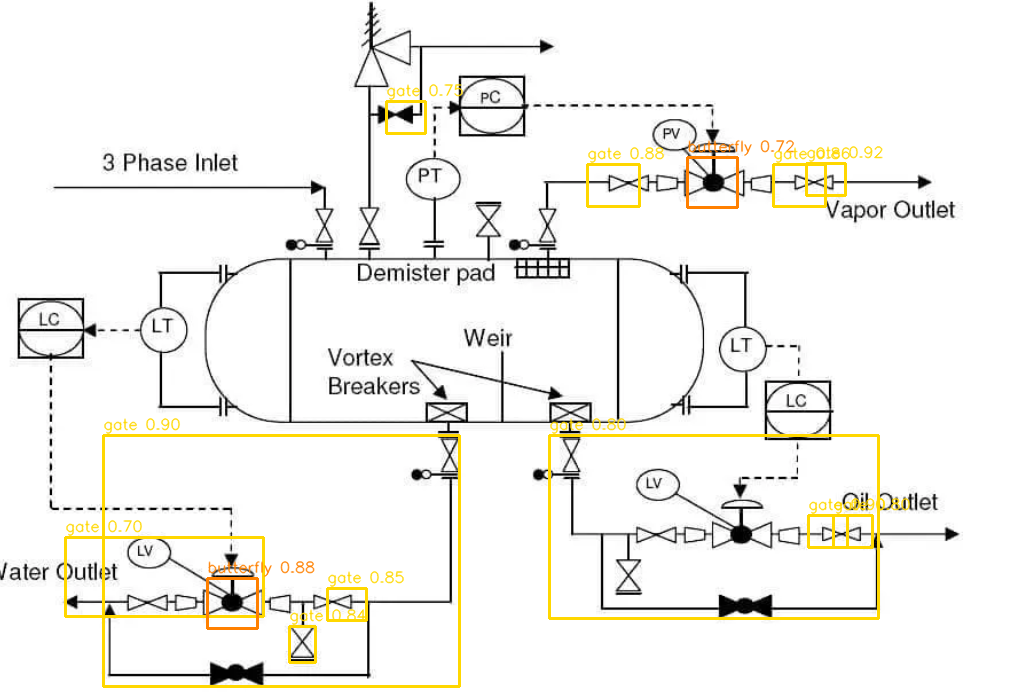
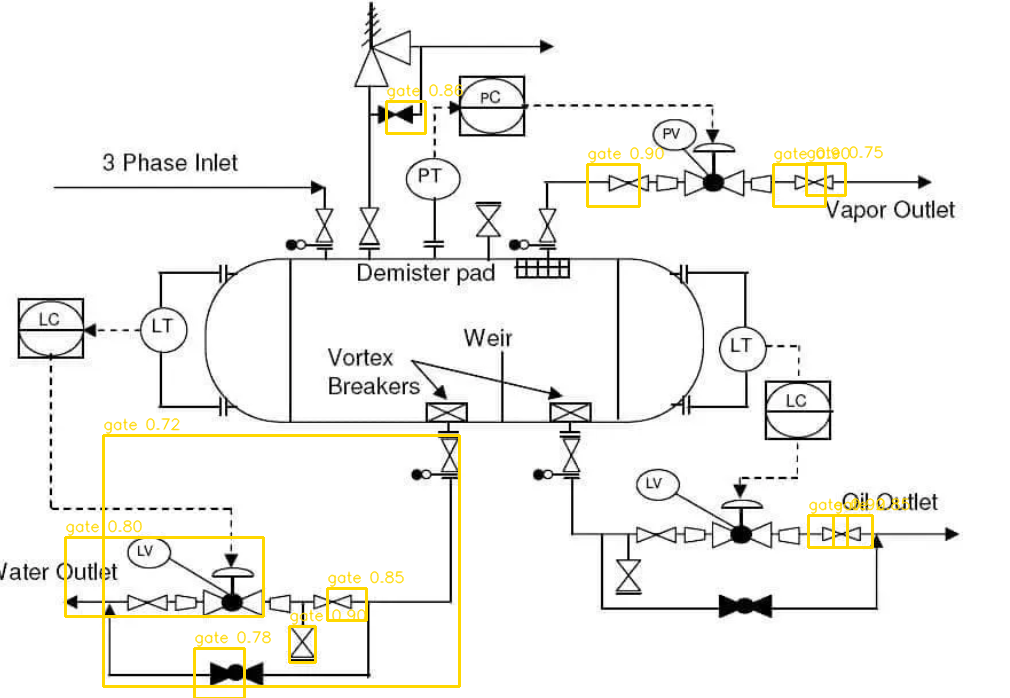
Added Source Explaination file

diff --git a/valve_pipeline/src/detect.py b/valve_pipeline/src/detect.py
@@ -18,6 +18,7 @@ class Box:
     template_label: str = field(default="")
 
 
+# Loads each reference valve image from disk, binarizes it, and returns a dict mapping label names to their binary template arrays.
 def load_templates(
     refs_dir: str | Path,
     reference_map: dict[str, str],
@@ -37,6 +38,7 @@ def load_templates(
     return templates
 
 
+# Finds all candidate valve regions in the binary image by combining template matching and connected-component analysis, then removes overlapping boxes via NMS.
 def detect_candidates(
     binary_img: np.ndarray,
     templates: dict[str, np.ndarray],
@@ -83,6 +85,7 @@ def detect_candidates(
     return merged
 
 
+# Slices out each detected box region from the original color image with a small padding, returning only crops that are large enough to classify.
 def crop_candidates(
     original_img: np.ndarray,
     boxes: list[Box],
@@ -102,6 +105,7 @@ def crop_candidates(
     return results
 
 
+# Removes duplicate overlapping boxes by keeping the highest-scoring box and suppressing any other box whose IoU with it exceeds the given threshold.
 def non_max_suppression(boxes: list[Box], iou_threshold: float) -> list[Box]:
     if not boxes:
         return []
@@ -118,6 +122,7 @@ def non_max_suppression(boxes: list[Box], iou_threshold: float) -> list[Box]:
     return kept
 
 
+# Calculates the Intersection over Union (IoU) ratio between two boxes to measure how much they overlap.
 def _iou(a: Box, b: Box) -> float:
     ax2, ay2 = a.x + a.w, a.y + a.h
     bx2, by2 = b.x + b.w, b.y + b.h
@@ -130,6 +135,7 @@ def _iou(a: Box, b: Box) -> float:
     return inter / union if union > 0 else 0.0
 
 
+# Rotates a template image by the given angle while expanding the canvas to prevent any part of the symbol from being clipped.
 def _rotate_template(img: np.ndarray, angle: float) -> np.ndarray:
     if angle == 0:
         return img
@@ -150,6 +156,7 @@ def _rotate_template(img: np.ndarray, angle: float) -> np.ndarray:
     )
 
 
+# Slides each reference template across the binary image at every combination of scale and angle, creating a Box wherever the match score meets the threshold.
 def _template_match_boxes(
     binary_img: np.ndarray,
     templates: dict[str, np.ndarray],
@@ -183,6 +190,7 @@ def _template_match_boxes(
     return boxes
 
 
+# Finds candidate boxes by extracting connected blobs from the binary image and keeping only those whose area and aspect ratio fall within the configured valve size range.
 def _cc_boxes(
     binary_img: np.ndarray,
     cc_min_area: int,
@@ -206,6 +214,7 @@ def _cc_boxes(
     return boxes
 
 
+# Draws all candidate boxes onto a copy of the binary image (red for template matches, orange for CC blobs) and saves it as a debug PNG.
 def _save_debug_boxes(img: np.ndarray, boxes: list[Box], path: Path) -> None:
     vis = cv2.cvtColor(img, cv2.COLOR_GRAY2BGR)
     for box in boxes:

diff --git a/valve_pipeline/src/classify.py b/valve_pipeline/src/classify.py
@@ -14,6 +14,7 @@ from .detect import Box
 VALID_LABELS = {"ball", "butterfly", "threeway", "pinch", "gate", "oilpump", "coriolismeter", "unknown"}
 
 
+# Reads all reference valve images from disk, encodes them as base64, and builds the list of message content blocks that will be sent to the LLM as visual examples.
 def build_reference_payload(
     refs_dir: str | Path,
     reference_map: dict[str, str],
@@ -37,6 +38,7 @@ def build_reference_payload(
     return items
 
 
+# Sends a single cropped image to the OpenAI vision model alongside the reference valve images and returns the predicted label and confidence as a dict.
 def classify_crop(
     crop_bgr: "np.ndarray",
     reference_payload: list,
@@ -107,6 +109,7 @@ def classify_crop(
     return {"label": label, "confidence": confidence}
 
 
+# Wraps classify_crop with exponential-backoff retry logic for rate limit errors, returning an "unknown" result if all attempts fail.
 def _call_with_retry(
     crop_bgr: "np.ndarray",
     reference_payload: list,
@@ -130,6 +133,7 @@ def _call_with_retry(
     return {"label": "unknown", "confidence": 0.0}
 
 
+# Classifies all cropped regions in parallel using a thread pool, preserving their original order, and returns one result dict per crop.
 def classify_all(
     crops: list[tuple[Box, "np.ndarray"]],
     reference_payload: list,

diff --git a/valve_pipeline/src/preprocess.py b/valve_pipeline/src/preprocess.py
@@ -6,6 +6,7 @@ import cv2
 import numpy as np
 
 
+# Converts a raw schematic image to a clean binary image (white symbols on black) by applying Otsu thresholding, median blur denoising, and optional deskew correction.
 def preprocess(
     image_path: str | Path,
     config: dict,
@@ -39,6 +40,7 @@ def preprocess(
     return denoised
 
 
+# Estimates the document skew angle in degrees by detecting horizontal lines via Hough transform and taking the median of their angles.
 def _estimate_skew(binary: np.ndarray) -> float:
     edges = cv2.Canny(binary, 50, 150, apertureSize=3)
     lines = cv2.HoughLinesP(
@@ -54,6 +56,7 @@ def _estimate_skew(binary: np.ndarray) -> float:
     return float(np.median(horiz)) if horiz else 0.0
 
 
+# Rotates the binary image to correct its skew angle; returns the image unchanged if the skew is less than 0.5 degrees.
 def _deskew(binary: np.ndarray) -> np.ndarray:
     skew = _estimate_skew(binary)
     if abs(skew) < 0.5:

diff --git a/valve_pipeline/src/assemble.py b/valve_pipeline/src/assemble.py
@@ -16,6 +16,7 @@ _LABEL_COLORS: dict[str, tuple[int, int, int]] = {
 }
 
 
+# Draws colored bounding boxes and label text onto the original image for every detection that passes the confidence threshold, and returns the annotated image alongside the structured result records.
 def assemble(
     original_img: np.ndarray,
     crops: list[tuple[Box, np.ndarray]],

diff --git a/valve_pipeline/src/pipeline.py b/valve_pipeline/src/pipeline.py
@@ -15,6 +15,7 @@ from .detect import crop_candidates, detect_candidates, load_templates
 from .preprocess import preprocess
 
 
+# Runs the full 4-stage pipeline (preprocess → detect → classify → assemble) on a single schematic image and writes annotated PNG + JSON results.
 def run(
     schematic_path: str | Path,
     config_path: str | Path = "config.yaml",

diff --git a/valve_pipeline/src/SOURCE_EXPLAINED.md b/valve_pipeline/src/SOURCE_EXPLAINED.md
@@ -1,0 +1,121 @@
+# Valve Pipeline — Source Code Explained
+
+## File Overview
+
+### `__init__.py`
+Empty — just marks the directory as a Python package.
+
+---
+
+### `pipeline.py` — Orchestrator
+The entry point. Calls the other 4 stages in sequence:
+1. `preprocess` → binarized image
+2. `detect_candidates` → list of `Box` objects
+3. `classify_all` → label + confidence for each box
+4. `assemble` → annotated image + JSON records
+
+Also handles CLI args (`--batch`, `--debug`), loads config from `config.yaml`, loads the OpenAI API key, and writes the final `.png` and `.json` output files.
+
+---
+
+### `preprocess.py` — Stage 1: Image Cleanup
+Takes the raw schematic and returns a clean binary image:
+1. **Grayscale** — reads the image in grayscale
+2. **Otsu thresholding** (`THRESH_BINARY_INV + THRESH_OTSU`) — auto-picks the best threshold, inverts so symbols are white on black
+3. **Auto-polarity fix** — if >50% of pixels end up white, flips it (handles light/dark schematics)
+4. **Median blur** — removes salt-and-pepper noise (kernel size from config)
+5. **Deskew** — uses Hough line detection to estimate document skew angle, then rotates to correct it if the skew > 0.5°
+
+---
+
+### `detect.py` — Stage 2: Finding Candidates (Core of box creation)
+
+This is where all boxes come from. Two independent methods run and their results are merged:
+
+#### Method 1 — Template Matching (`_template_match_boxes`)
+```
+For each reference valve symbol (template):
+  For each scale (e.g. 0.8x, 1.0x, 1.2x):
+    Resize the template
+    For each angle (e.g. 0°, 45°, 90°, -45°):
+      Rotate the resized template
+      Slide it across the binary image using cv2.matchTemplate (TM_CCOEFF_NORMED)
+      Every pixel where score >= threshold → create a Box(x, y, w, h, score, source="template")
+```
+The `w` and `h` of the box come directly from the template's dimensions at that scale/angle.
+
+#### Method 2 — Connected Components (`_cc_boxes`)
+```
+cv2.connectedComponentsWithStats on the binary image
+For each blob (connected region of white pixels):
+  Read its bounding box (x, y, w, h) and area from OpenCV stats
+  If area is within [cc_min_area, cc_max_area]
+  AND aspect ratio (w/h) is within cc_aspect_range:
+    Create a Box(x, y, w, h, score=1.0, source="cc")
+```
+This catches valve symbols the template missed by finding any compact blob.
+
+#### NMS — Non-Max Suppression
+Both box lists are combined, then overlapping boxes are removed:
+- Sort by score descending
+- Keep the highest-scoring box, suppress any other box with IoU > threshold
+- IoU (Intersection over Union) is calculated in `_iou()`
+
+#### `crop_candidates`
+For each surviving box, slices the **original color image** with 4px padding on each side → returns `(Box, crop_image)` pairs.
+
+---
+
+### `classify.py` — Stage 3: Vision LLM Classification
+For each cropped image:
+1. Encodes the crop as base64 PNG
+2. Sends it to **OpenAI GPT** (model from config) with:
+   - All reference valve images embedded in the prompt (base64, `detail: low`)
+   - System prompt describing it's a strict P&ID classifier
+   - Instruction to reply **only** with `{"label": "...", "confidence": 0.0}`
+3. Parses the JSON response, validates label is in `VALID_LABELS`, clamps confidence to [0, 1]
+4. Retries up to 4 times on rate limit errors (exponential backoff)
+5. All crops run **in parallel** via `ThreadPoolExecutor`
+
+Valid labels: `ball`, `butterfly`, `threeway`, `pinch`, `gate`, `oilpump`, `coriolismeter`, `unknown`
+
+---
+
+### `assemble.py` — Stage 4: Drawing Boxes on the Image
+For each `(box, crop)` + classification result pair:
+- **Skips** if label is `"unknown"` or confidence < `confidence_floor` (from config)
+- Draws a colored `cv2.rectangle` on the original image using the box's `(x, y, w, h)`
+- Draws the label text (e.g. `"ball 0.92"`) just above the box with `cv2.putText`
+- Appends a record dict with `bbox`, `label`, `confidence`, `detection_source`, `match_score` to the output list
+
+Label colors:
+
+| Label          | Color (BGR)       |
+|----------------|-------------------|
+| ball           | Green             |
+| butterfly      | Orange            |
+| threeway       | Blue-orange       |
+| pinch          | Purple            |
+| gate           | Gold              |
+| oilpump        | Dark grey         |
+| coriolismeter  | Dark purple       |
+
+---
+
+## Box Lifecycle Summary
+
+```
+preprocess.py    → binary image (white symbols on black)
+      ↓
+detect.py        → template match at N scales × M angles  ──┐
+                 → connected component blobs               ──┤ merge
+                 → NMS removes duplicates                    ↓
+                 → Box(x, y, w, h, score, source)
+      ↓
+detect.py        → crop_candidates: slice original color image per box (+4px pad)
+      ↓
+classify.py      → GPT vision: is this crop a valve? which type?
+      ↓
+assemble.py      → cv2.rectangle + cv2.putText on original image using box coords
+                 → write annotated PNG + JSON
+```